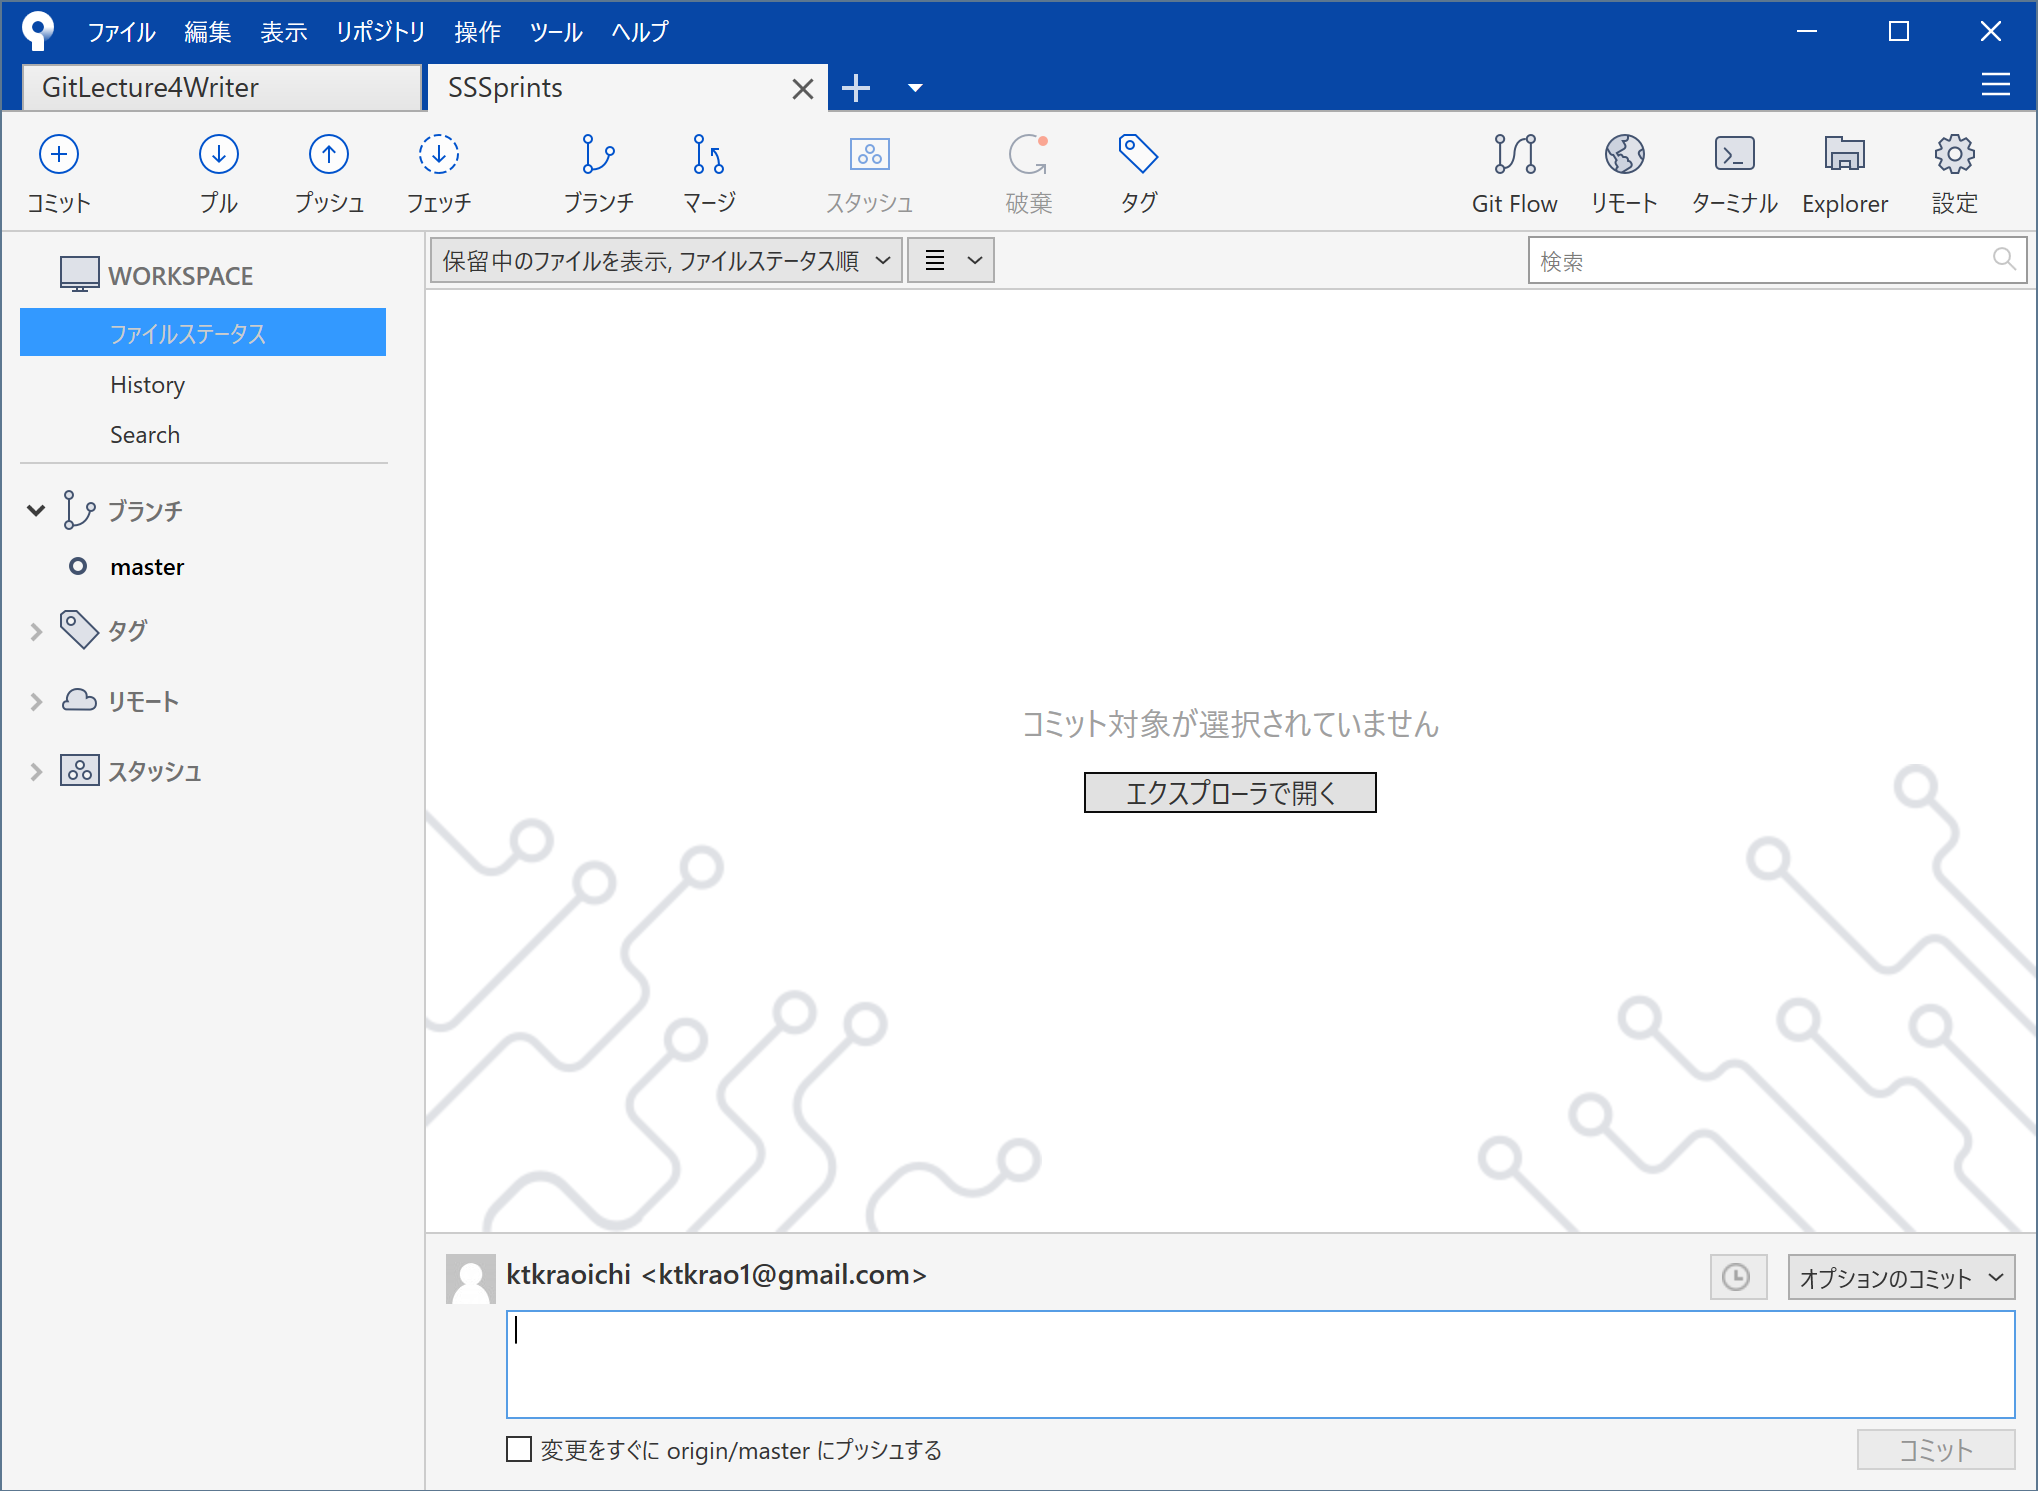
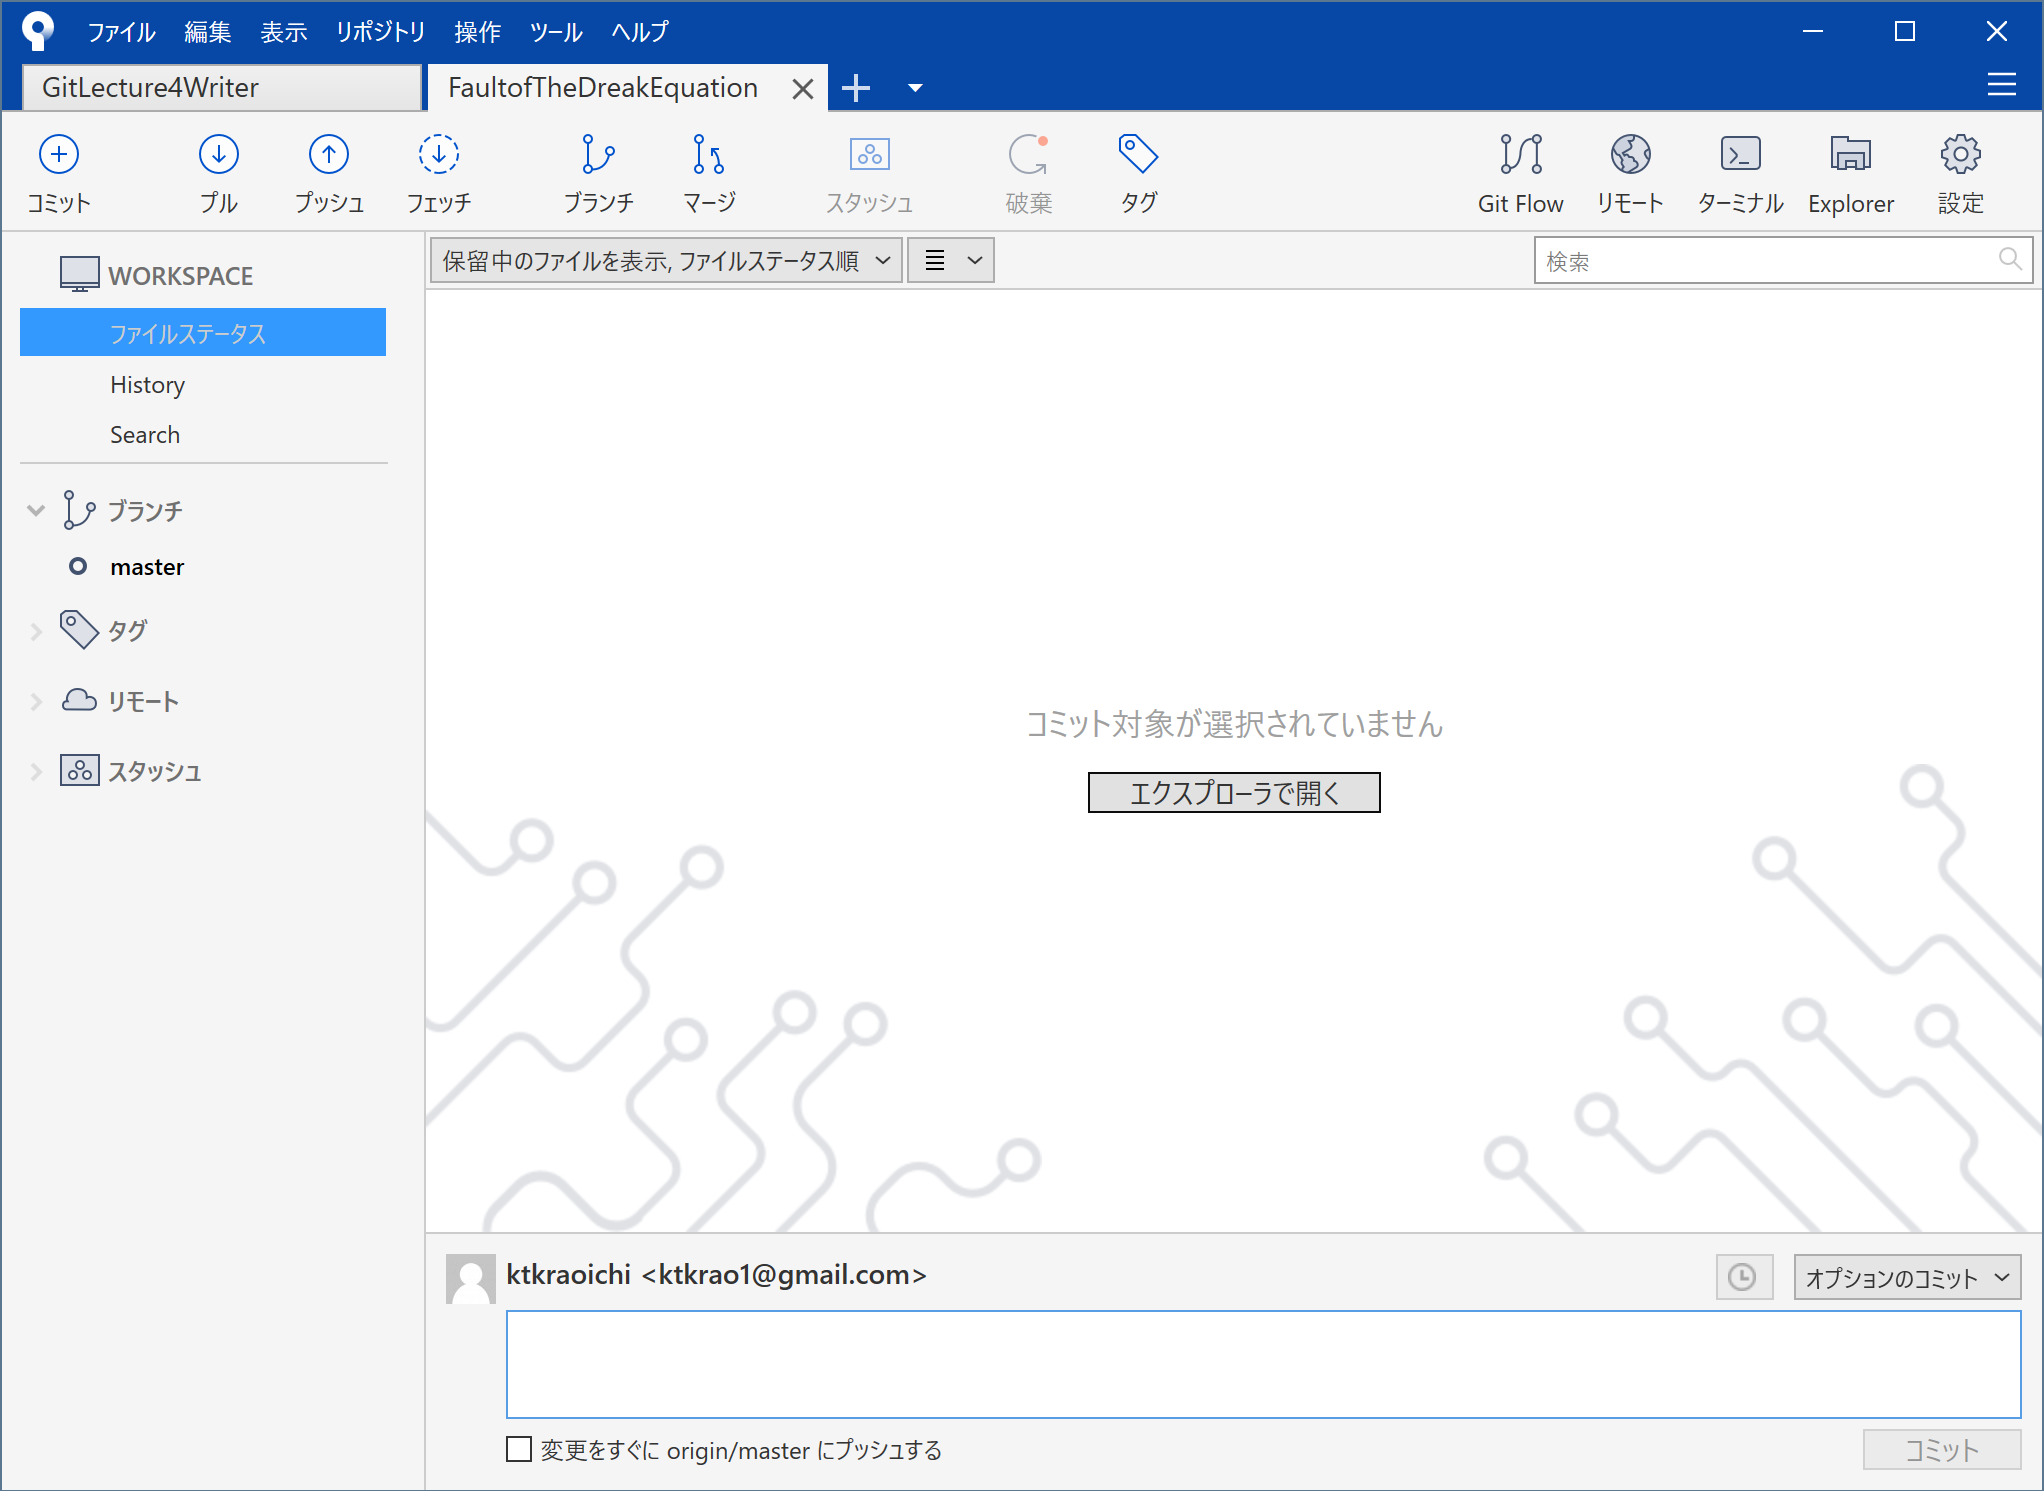
教材をSSSprintからN=2に変更。コミットログから抽出しやすいので。

diff --git a/Chapter1/Chapter1_2.md b/Chapter1/Chapter1_2.md
@@ -180,7 +180,7 @@ GitBash かターミナルを起動して、リポジトリをクローンする
 
 `git clone "さっきコピーしたURL"`
 
-例： `git clone https://github.com/ktkraoichi/SSSprints.git`
+例： `git clone https://github.com/ktkraoichi/FaultofTheDreakEquation.git`
 
 クローン作業が始まり…
 
@@ -203,8 +203,8 @@ Ktkr@KtkrPC MINGW64 ~
 $ cd Documents
 
 Ktkr@KtkrPC MINGW64 ~/Documents
-$ git clone https://github.com/ktkraoichi/SSSprints.git
-Cloning into 'SSSprints'...
+$ git clone https://github.com/ktkraoichi/FaultofTheDreakEquation.git
+Cloning into 'FaultofTheDreakEquation'...
 remote: Enumerating objects: 3, done.
 remote: Counting objects: 100% (3/3), done.
 remote: Compressing objects: 100% (2/2), done.
@@ -219,13 +219,13 @@ $
 
 ```bash
 Ktkr@KtkrPC MINGW64 ~/Documents
-$ cd SSSprints
-
-Ktkr@KtkrPC MINGW64 ~/Documents/SSSprints (master)
+$ cd FaultofTheDreakEquation
+@
+Ktkr@KtkrPC MINGW64 ~/Documents/FaultofTheDreakEquation (master)
 $ ls -a
 .  ..  .git  README.md
 
-Ktkr@KtkrPC MINGW64 ~/Documents/SSSprints (master)
+Ktkr@KtkrPC MINGW64 ~/Documents/FaultofTheDreakEquation (master)
 $
 ```
 
@@ -235,8 +235,8 @@ $
 ※ vim は GitBash や Mac OS X に標準でインストールされているテキストエディタです。
 
 ```vim
-# SSSprints
-即興(S)小説(S)スプリントのリポジトリ
+# FaultofTheDreakEquation
+Nが2になった日の原稿管理リポジトリ
 ~
 ~
 ~
@@ -250,8 +250,8 @@ $
 ~
 ~
 ~
-README.md [unix] (16:09 15/02/2020)                                                                                                         1,1 全て
-"README.md" [unix] 2L, 64C
+README.md [unix] (12:51 17/02/2020)                                                                                                                 1,1 全て
+"README.md" [unix] 2L, 77C                          
 ```
 
 こんな感じです。
